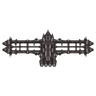
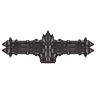
art: refine juggernaut hull and engines

Changed region(s): [[0.0, 0.2812, 1.0, 0.7188], [0.875, 0.375, 0.9062, 0.4062], [0.0938, 0.375, 0.125, 0.4062]]

diff --git a/.agents/specs/content-roster.md b/.agents/specs/content-roster.md
@@ -113,7 +113,7 @@
 | rsBattleship | 战列舰 | 3 | 远程主炮 |
 | rsMissileBattleship | 导弹战列舰 | 3 | 导弹饱和攻击 |
 | rsTitan | 泰坦 | 4 | 重型主炮、双联快速对空副炮与 190 像素纳米维修光环；基础维修速度 0.35，不维修建筑。完成护盾科技后可原址升级为悖论泰坦舰，获得护盾、自修、激光近防与强化主副炮；精锐形态随升级保留。普通、悖论及精锐形态共用隐藏的泰坦建造许可；取消返还和阵亡返还需对局验证。 |
-| rsJuggernaut | 主宰 | 4 | 移动船坞与维修；原创俯视造型采用横向展开的双翼船坞、中央指挥舰体与开放式建造轨道，突出其移动船坞身份。研究后取得一个隐藏建造许可，在造舰排队时消耗、战损后返还，普通与精锐形态合计每队限一艘。取消订单与多船厂并行排队的许可闭环须实测。 |
+| rsJuggernaut | 主宰 | 4 | 移动船坞与维修；原创俯视造型采用横向展开的实心双翼船坞、中央指挥舰体与融入舰体的建造甲板，尾部推进器保持克制，突出其移动船坞身份。研究后取得一个隐藏建造许可，在造舰排队时消耗、战损后返还，普通与精锐形态合计每队限一艘。取消订单与多船厂并行排队的许可闭环须实测。 |
 | rsParadoxTitan | 悖论泰坦舰 | 4 | 泰坦原址升级型；16000 船体、4500 护盾、近防与强化舰队维修，继承泰坦每队限额。 |
 | rsColossus | 巨像 | 4 | 专用地图行星武器载体；地爆天星、中子灭杀、安乐天使三个充能动作，队伍许可限一艘。普通地图另提供地爆天星的定点核爆式攻击，以及清除地面部队、建筑中立化的中子灭杀。玩家定点操作、原版建筑转换与完整冷却规则仍须对局验收。 |
 | rsFighter | 护航机 | 2 | 快速防空 |

diff --git a/.agents/spikes/juggernaut-visual.md b/.agents/spikes/juggernaut-visual.md
@@ -4,6 +4,6 @@
 
 《群星》官方 [开发日志 #163](https://store.steampowered.com/news/posts/?appids=281990&enddate=1582200969)将主宰描述为一对巨大的机翼，同时承担前线船坞与维修基地职责。用户提供的另一张参考图强调中央核心与左右狭长船坞组成的横向轮廓；该图只用于理解结构，没有纳入项目素材。
 
-原有 `juggernaut-source.png` 外轮廓接近方形，内部为两块封闭的矩形船坞。新版用图像生成工具创作独立俯视贴图，改为中央指挥舰体、左右开放式建造轨道与细长外翼，保留项目的钢蓝色舰体、琥珀色作业灯和蓝色尾喷风格。交付物为 `art/generated/juggernaut-source.png` 与其游戏尺寸导出 `mod/rusted-stellaris/units/juggernaut.png`、`juggernaut_dead.png`；没有复制参考图像素或官方模型。
+原有 `juggernaut-source.png` 外轮廓接近方形，内部为两块封闭的矩形船坞。新版用图像生成工具创作独立俯视贴图，改为中央指挥舰体与细长横向双翼。第一次生成的翼部留有大面积透空结构，四个尾部发动机也过于突出。依用户反馈，最终稿把建造轨道融合进实心装甲甲板，尾部改为贴合舰体的小型喷口；保留项目的钢蓝色舰体与琥珀色作业灯。交付物为 `art/generated/juggernaut-source.png` 与其游戏尺寸导出 `mod/rusted-stellaris/units/juggernaut.png`、`juggernaut_dead.png`；没有复制参考图像素或官方模型。
 
 静态单位配置与贴图引用检查通过。将新版贴图装入本机游戏 1.15 沙盒后，三张专用地图均进入运行态并找到初始建造者。主宰在实际战斗画面中的缩放辨识度、建造动画及完整对局仍待实测。
